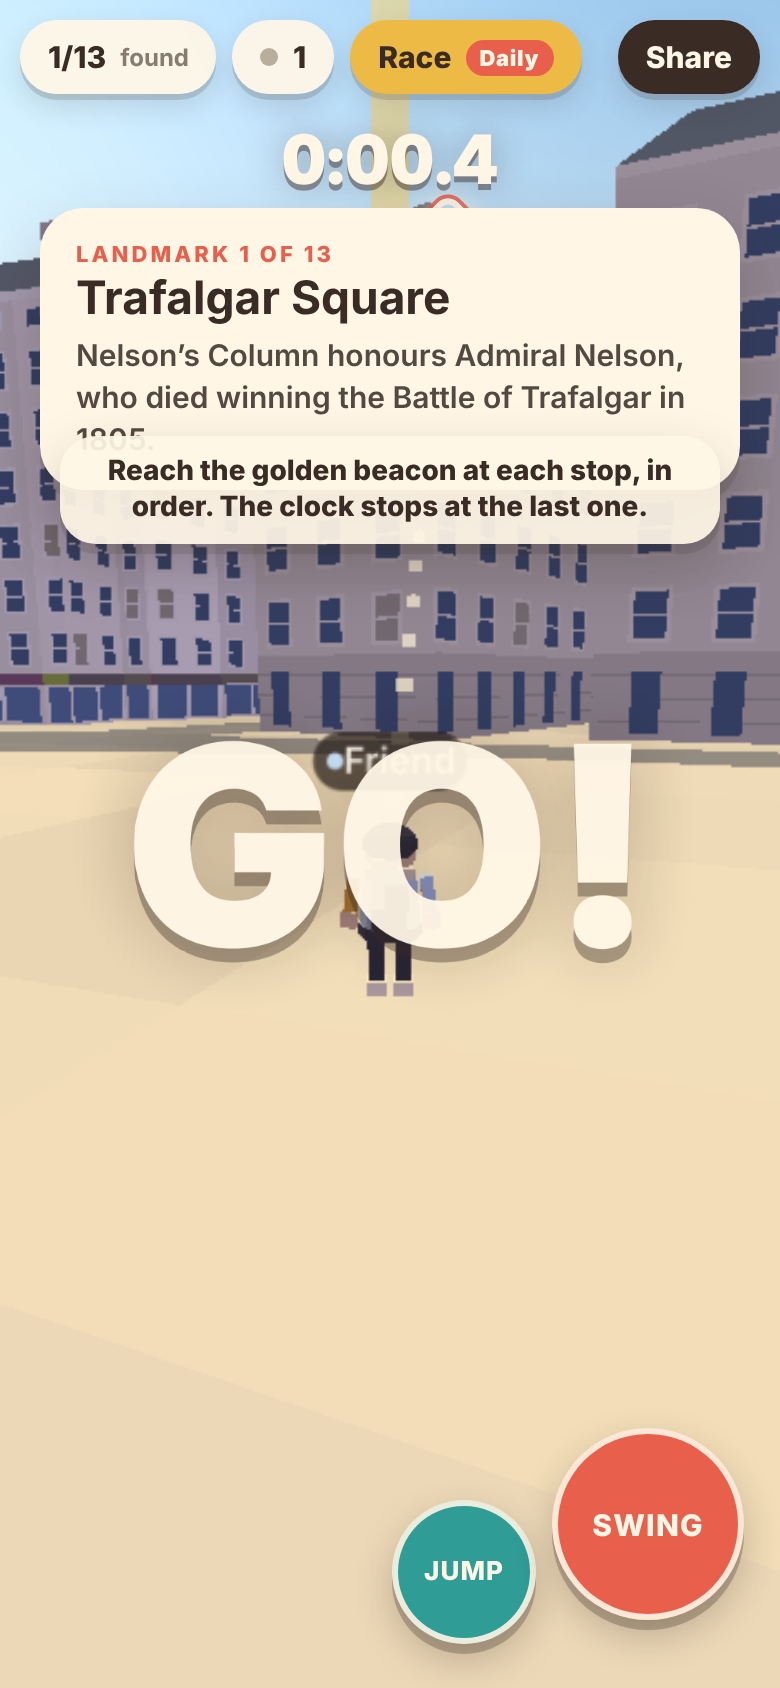
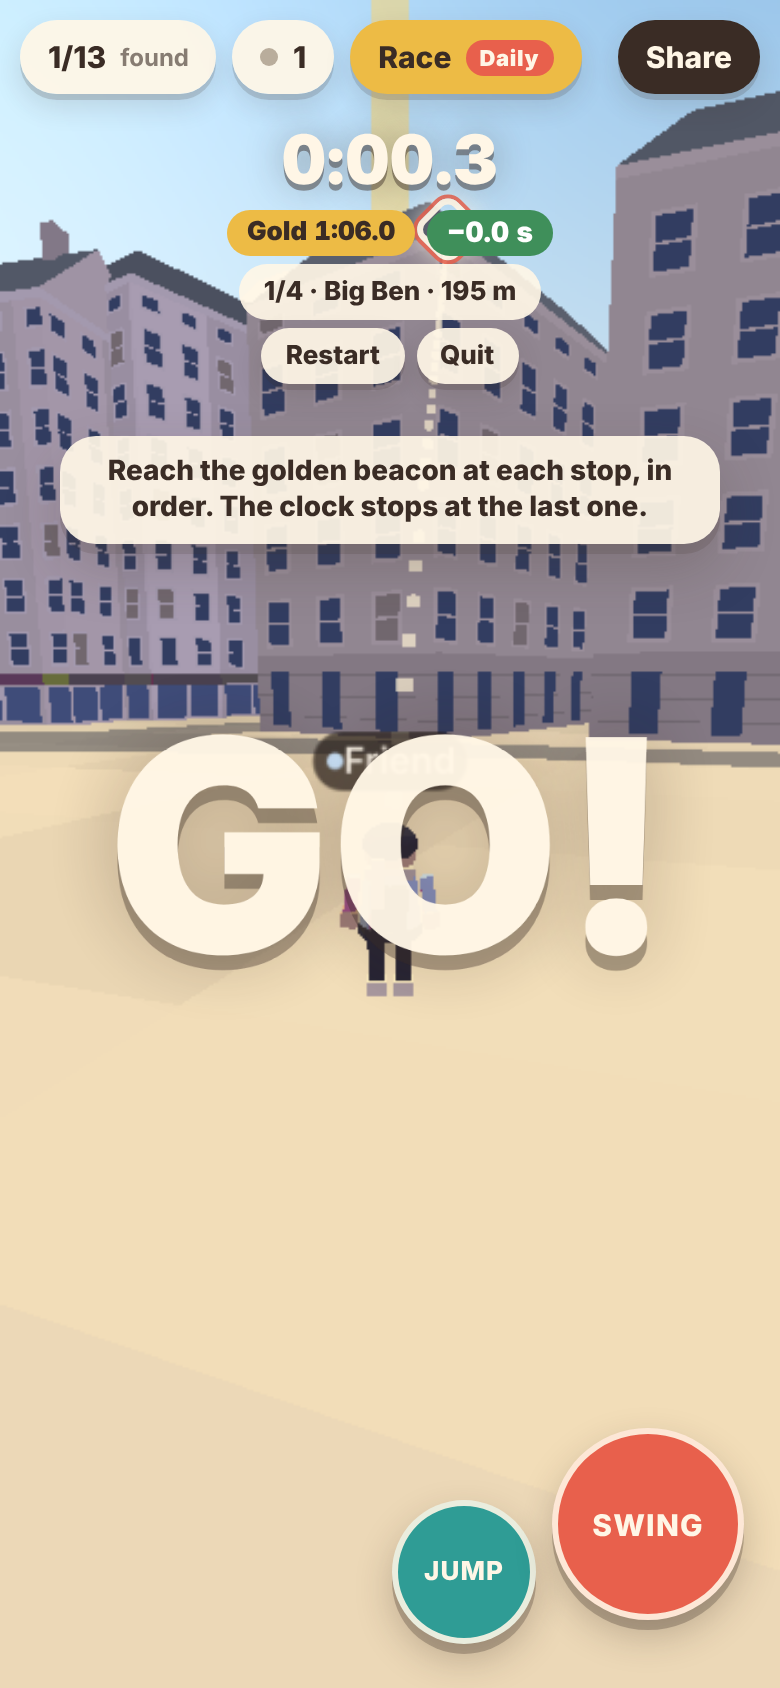
Races: hold landmark fact cards until the race and finish card are gone
Landmarks found mid-race are saved and counted at once; their card shows
back in free roam (latest find, '+N more on that run').

Claude-Session: https://claude.ai/code/session_01Fz3Rh5EPx3kZFEh5TLfFkb

diff --git a/e2e/game.spec.ts b/e2e/game.spec.ts
@@ -338,8 +338,11 @@ test('race: pick a route, count down, take every checkpoint, finish and keep a p
   for (const id of route) {
     await page.evaluate(([x, z]) => window.__citywalk.teleport(x, 0.5, z), where[id]);
     await page.waitForTimeout(400);
+    // landmarks found mid-race keep their fact card back so it cannot cover the race clock
+    await expect(page.locator('#card')).not.toHaveClass(/\bon\b/);
   }
   await expect(page.locator('#race-done')).toBeVisible();
+  await expect(page.locator('#card')).not.toHaveClass(/\bon\b/); // nor the finish card
   await expect(page.locator('#done-kicker')).toContainText('new personal best');
   await expect(page.locator('#done-share')).toHaveText('Challenge a friend'); // fixed routes share a ghost too
   // a teleported run is far inside the gold target
@@ -352,6 +355,7 @@ test('race: pick a route, count down, take every checkpoint, finish and keep a p
 
   // the route list now shows that best time
   await page.locator('#done-routes').tap();
+  await expect(page.locator('#card')).not.toHaveClass(/\bon\b/); // still held under the route list
   await expect(page.locator('#routes button', { hasText: 'Westminster Dash' }).locator('.pb')).toHaveText(/\d:\d\d\.\d/);
   await expect(page.locator('#routes button', { hasText: 'Westminster Dash' }).locator('.pb')).toHaveClass(/\bgold\b/);
   await expect(page.locator('#routes button', { hasText: 'City Sprint' }).locator('.pb')).not.toHaveClass(/medal/); // not raced yet
@@ -374,6 +378,9 @@ test('race: pick a route, count down, take every checkpoint, finish and keep a p
   await expect(page.locator('#toast')).toContainText(/[+−]\d+\.\d s/);
   await page.screenshot({ path: 'screenshots/race-ghost.png' });
   await page.locator('#race-quit').tap();
+  // back in free roam, the held card shows the latest find and counts the rest
+  await expect(page.locator('#card')).toHaveClass(/\bon\b/);
+  await expect(page.locator('#card-kicker')).toContainText(/more on that run/);
   await expect.poll(async () => (await page.evaluate(() => window.__citywalk.ghost)).visible).toBe(false);
   await expect(page.locator('#race-gap')).toBeHidden();
   expect(errors).toEqual([]);
@@ -407,8 +414,11 @@ test('daily challenge: listed first, starts a 4-stop route for today', async ({ 
   for (const [x, z] of stops) {
     await page.evaluate(([x, z]) => window.__citywalk.teleport(x, 0.5, z), [x, z]);
     await page.waitForTimeout(400);
+    // landmarks found mid-race keep their fact card back so it cannot cover the race clock
+    await expect(page.locator('#card')).not.toHaveClass(/\bon\b/);
   }
   await expect(page.locator('#race-done')).toBeVisible();
+  await expect(page.locator('#card')).not.toHaveClass(/\bon\b/); // nor the finish card
   await expect(page.locator('#done-share')).toBeVisible();
   await page.evaluate(() => {
     const w = window as unknown as { __shared: string[] };
@@ -724,8 +734,11 @@ test('desktop: no touch buttons, key hints shown, WASD and Space work', async ({
   for (const [x, z] of [[-311, 222], [-372, 270], [-610, 208], [-380, 40]]) {
     await page.evaluate(([x, z]) => window.__citywalk.teleport(x, 0.5, z), [x, z]);
     await page.waitForTimeout(400);
+    // landmarks found mid-race keep their fact card back so it cannot cover the race clock
+    await expect(page.locator('#card')).not.toHaveClass(/\bon\b/);
   }
   await expect(page.locator('#race-done')).toBeVisible();
+  await expect(page.locator('#card')).not.toHaveClass(/\bon\b/); // nor the finish card
   await expect(page.locator('#done-again')).toHaveText('Race again (R)');
   await page.keyboard.press('KeyR');
   await expect(page.locator('#race-done')).toBeHidden();

diff --git a/src/ui.ts b/src/ui.ts
@@ -1,5 +1,6 @@
 import { CONFIG } from './config';
 import { LANDMARKS, type Landmark } from './world/data';
+import { CardHold, cardKicker } from './cardhold';
 import { camSpeedLabel, fpsLabel, nextCamSpeed, parseSettings, type Settings } from './settings';
 
 const $ = <T extends HTMLElement = HTMLElement>(id: string): T => document.getElementById(id) as T;
@@ -69,6 +70,7 @@ export class UI {
   /** Saved player options; main.ts reads camSpeed/invertY every frame. */
   settings: Settings = parseSettings(store.get('citywalk.settings'));
   private cardTimer = 0;
+  private heldCards = new CardHold();
   private toastTimer = 0;
   private tutStep = -1;
   private tutTime = 0;
@@ -159,20 +161,35 @@ export class UI {
     $('count').textContent = `${this.found.size}/${LANDMARKS.length}`;
   }
 
-  /** Returns true if this is a new discovery. */
-  discover(l: Landmark): boolean {
+  /**
+   * Returns true if this is a new discovery. With `hold` (a race or a menu is on screen) the find
+   * is saved and counted but its card waits until `releaseHeldCard()`.
+   */
+  discover(l: Landmark, hold = false): boolean {
     if (this.found.has(l.id)) return false;
     this.found.add(l.id);
     store.set('citywalk.found', JSON.stringify([...this.found]));
     this.renderProgress();
-    const all = this.found.size === LANDMARKS.length;
-    $('card-kicker').textContent = all ? `All ${LANDMARKS.length} found. London explored!` : `Landmark ${this.found.size} of ${LANDMARKS.length}`;
+    if (hold) this.heldCards.hold(l);
+    else this.showCard(l, 0);
+    return true;
+  }
+
+  /** Shows the card held back during a race, if any. Returns true when one was shown. */
+  releaseHeldCard(): boolean {
+    const held = this.heldCards.release();
+    if (!held) return false;
+    this.showCard(held.landmark, held.others);
+    return true;
+  }
+
+  private showCard(l: Landmark, others: number): void {
+    $('card-kicker').textContent = cardKicker(this.found.size, LANDMARKS.length, others);
     $('card-name').textContent = l.name;
     $('card-fact').textContent = l.fact;
     $('card').classList.add('on');
     clearTimeout(this.cardTimer);
     this.cardTimer = window.setTimeout(() => $('card').classList.remove('on'), 7500);
-    return true;
   }
 
   toast(msg: string, ms = 1800): void {

diff --git a/src/cardhold.ts b/src/cardhold.ts
@@ -1,0 +1,36 @@
+import type { Landmark } from './world/data';
+
+/**
+ * Landmark cards found while a race (or a menu such as the finish card) is on screen wait here,
+ * so the fact card never covers the race clock, hint or finish card. When the screen is free the
+ * most recent find is shown, with a note of how many others came with it.
+ */
+export class CardHold {
+  private latest: Landmark | null = null;
+  private count = 0;
+
+  hold(l: Landmark): void {
+    this.latest = l;
+    this.count++;
+  }
+
+  get pending(): number {
+    return this.count;
+  }
+
+  /** The card to show now and how many other held finds it stands for; null when nothing waits. */
+  release(): { landmark: Landmark; others: number } | null {
+    if (!this.latest) return null;
+    const out = { landmark: this.latest, others: this.count - 1 };
+    this.latest = null;
+    this.count = 0;
+    return out;
+  }
+}
+
+/** The small line above the landmark name on its card. */
+export function cardKicker(found: number, total: number, others = 0): string {
+  if (found >= total) return `All ${total} found. London explored!`;
+  const base = `Landmark ${found} of ${total}`;
+  return others > 0 ? `${base} · +${others} more on that run` : base;
+}

diff --git a/tests/cardhold.test.ts b/tests/cardhold.test.ts
@@ -1,0 +1,26 @@
+import { describe, expect, it } from 'vitest';
+import { CardHold, cardKicker } from '../src/cardhold';
+import { LANDMARKS } from '../src/world/data';
+
+describe('landmark cards held during a race', () => {
+  it('releases nothing when nothing was held', () => {
+    expect(new CardHold().release()).toBeNull();
+  });
+
+  it('shows the latest find once, counting the others, then clears', () => {
+    const h = new CardHold();
+    h.hold(LANDMARKS[0]);
+    h.hold(LANDMARKS[1]);
+    h.hold(LANDMARKS[2]);
+    expect(h.pending).toBe(3);
+    expect(h.release()).toEqual({ landmark: LANDMARKS[2], others: 2 });
+    expect(h.pending).toBe(0);
+    expect(h.release()).toBeNull();
+  });
+
+  it('words the kicker for one find, several finds and the last landmark', () => {
+    expect(cardKicker(3, 20)).toBe('Landmark 3 of 20');
+    expect(cardKicker(5, 20, 2)).toBe('Landmark 5 of 20 · +2 more on that run');
+    expect(cardKicker(20, 20, 3)).toBe('All 20 found. London explored!');
+  });
+});

diff --git a/src/main.ts b/src/main.ts
@@ -454,14 +454,17 @@ function updateLandmarks(dt: number): void {
   const p = player.pos;
   let nearest: Landmark | null = null;
   let nd = Infinity;
+  // a fact card would cover the race clock or the finish card: hold it until the screen is free
+  const hold = race.active || ui.panelOpen;
   for (const l of LANDMARKS) {
     const d = Math.hypot(p.x - l.x, p.z - l.z);
-    if (d < l.r && ui.discover(l)) sfx.discover();
+    if (d < l.r && ui.discover(l, hold) && !hold) sfx.discover();
     if (!ui.found.has(l.id) && d < nd) {
       nd = d;
       nearest = l;
     }
   }
+  if (!hold && ui.releaseHeldCard()) sfx.discover();
   compassTimer -= dt;
   if (compassTimer <= 0) {
     compassTimer = 0.1;

diff --git a/DAILY_PROGRESS.md b/DAILY_PROGRESS.md
@@ -2,6 +2,29 @@
 
 Verified work only. Newest first.
 
+## 2026-11-25
+
+**Implemented**
+- **Landmark fact cards no longer cover the race.** A landmark found during a countdown or run, or
+  while the finish card or route list is open, is saved and counted at once (the "found" counter
+  updates) but its fact card waits. When you are back in free roam the most recent find shows, with
+  "+N more on that run" when several were found, and the discovery chime plays then. Fixes today's
+  daily (starts inside Trafalgar Square), where the card covered the clock and hint during the
+  countdown. Outside races nothing changes.
+
+**Verified**
+- Build: 0 TS errors. Unit: 124 passed (3 new in `tests/cardhold.test.ts`). Browser: 12 of 12
+  passed; the race test now checks no card shows at any checkpoint, over the finish card or under
+  the route list, and that quitting the next race shows the held card with "more on that run".
+  Checked the test catches the bug: with the hold disabled it fails at the first checkpoint.
+  Looked at `screenshots/race-finish.png`: finish card clear.
+- Not verified: how the delayed card feels to a real player. Needs a human.
+
+**Money earned:** £0 (not yet published on a paying channel).
+
+**Next task:** owner playtest; keep watching the multiplayer test in CI; otherwise the slow-join
+question (roadmap item 0).
+
 ## 2026-11-24
 
 **Implemented**

diff --git a/ROADMAP.md b/ROADMAP.md
@@ -39,9 +39,9 @@ Ordered by impact on getting real players and the first revenue.
 7. **First-run polish**: daily-race card after a first tutorial (done 2026-11-01); "how races
    work" hint on the first countdown (done 2026-11-02); compass hides while the card shows
    (done 2026-11-03); R restarts a race on desktop (done 2026-11-22).
-8. **Landmark card over the race HUD** (seen 2026-11-24): when a race starts inside a landmark you
-   have not found (today's daily starts at Trafalgar Square), its fact card covers the clock and
-   hint during the countdown. Hold the card until the race ends. Top small fix next run.
+8. **Landmark card over the race HUD** (seen 2026-11-24, fixed 2026-11-25): landmarks found
+   during a race or under the finish card now save at once but hold their fact card until you are
+   back in free roam; the latest find shows, with "+N more on that run". Needs a look on a phone.
 9. **Race medals** (done 2026-11-23; live "Gold 0:35.0" chip in the HUD done 2026-11-24): gold/silver/bronze targets from route length, on the finish
    card and route list. Needs a human check that gold is hard but reachable; tune `medals` in
    `src/config.ts`.
